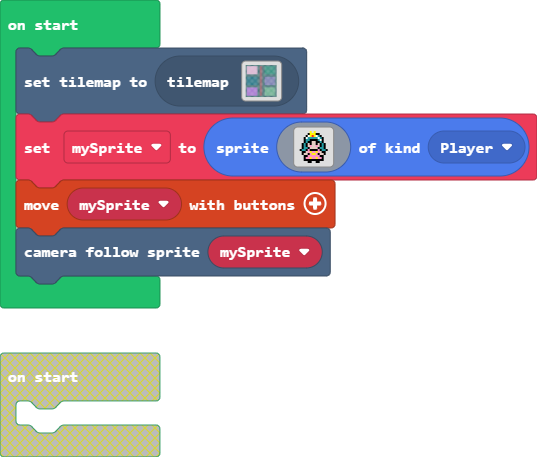
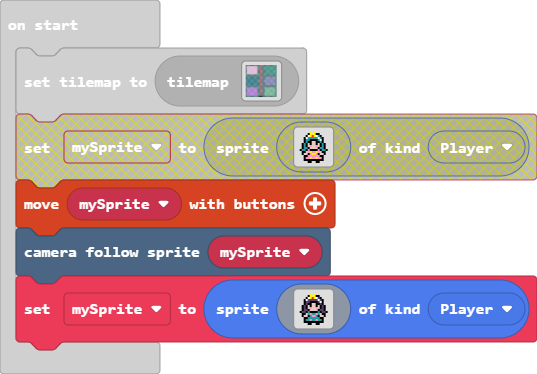
changes in tile map and character

diff --git a/main.ts b/main.ts
@@ -1,21 +1,21 @@
 tiles.setCurrentTilemap(tilemap`legel1`)
-let mySprite = sprites.create(img`
+let mySprite3 = sprites.create(img`
     . . . . . . 5 . 5 . . . . . . . 
     . . . . . f 5 5 5 f f . . . . . 
-    . . . . f 1 5 2 5 1 6 f . . . . 
-    . . . f 1 6 6 6 6 6 1 6 f . . . 
-    . . . f 6 6 f f f f 6 1 f . . . 
-    . . . f 6 f f d d f f 6 f . . . 
-    . . f 6 f d f d d f d f 6 f . . 
-    . . f 6 f d 3 d d 3 d f 6 f . . 
-    . . f 6 6 f d d d d f 6 6 f . . 
-    . f 6 6 f 3 f f f f 3 f 6 6 f . 
-    . . f f d 3 5 3 3 5 3 d f f . . 
-    . . f d d f 3 5 5 3 f d d f . . 
-    . . . f f 3 3 3 3 3 3 f f . . . 
-    . . . f 3 3 5 3 3 5 3 3 f . . . 
+    . . . . f 1 5 2 5 1 c f . . . . 
+    . . . f 1 c c c c c 1 c f . . . 
+    . . . f c c f f f f c 1 f . . . 
+    . . . f c f f d d f f c f . . . 
+    . . f c f d f d d f d f c f . . 
+    . . f c f d 3 d d 3 d f c f . . 
+    . . f c c f d d d d f c c f . . 
+    . f c c f 6 f f f f 6 f c c f . 
+    . . f f d 6 3 6 6 3 6 d f f . . 
+    . . f d d f 6 3 3 6 f d d f . . 
+    . . . f f 6 6 6 6 6 6 f f . . . 
+    . . . f 6 6 3 6 6 3 6 6 f . . . 
     . . . f f f f f f f f f f . . . 
     . . . . . f f . . f f . . . . . 
     `, SpriteKind.Player)
-controller.moveSprite(mySprite)
-scene.cameraFollowSprite(mySprite)
+controller.moveSprite(mySprite3)
+scene.cameraFollowSprite(mySprite3)
